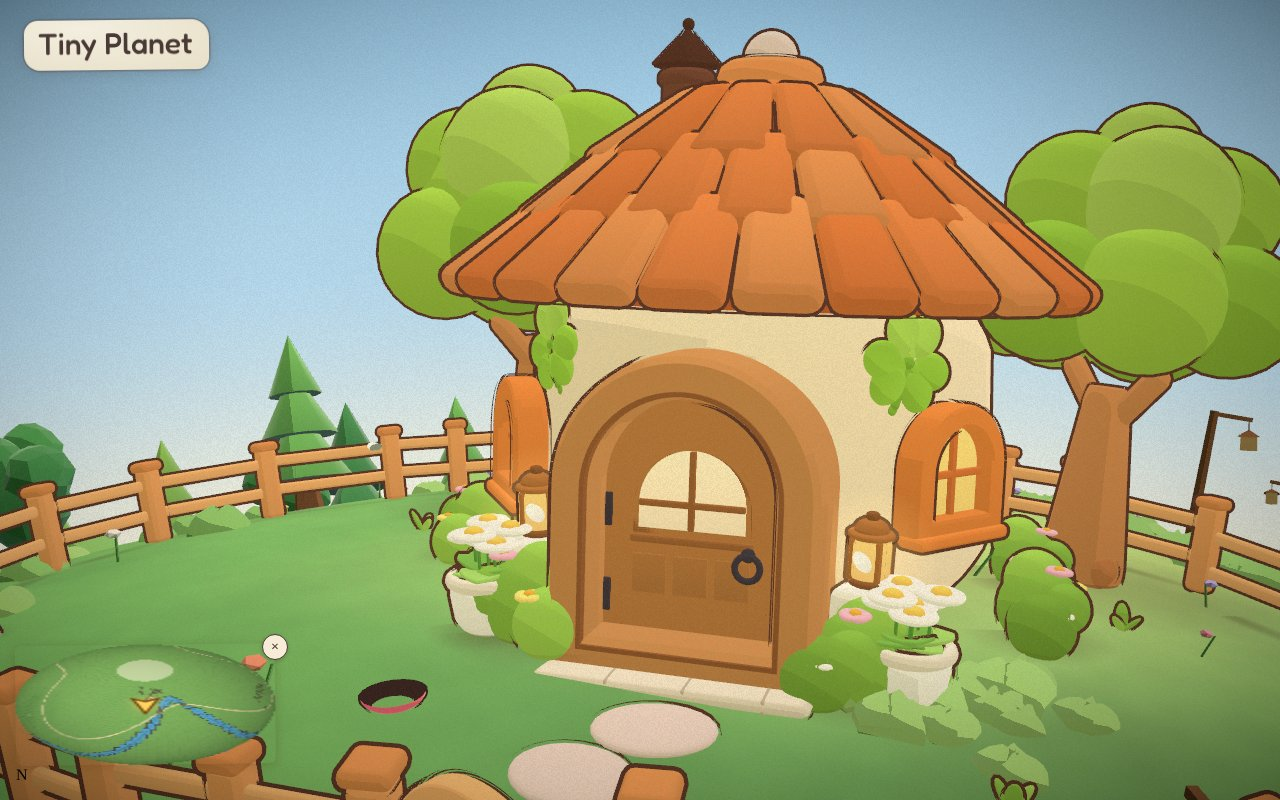
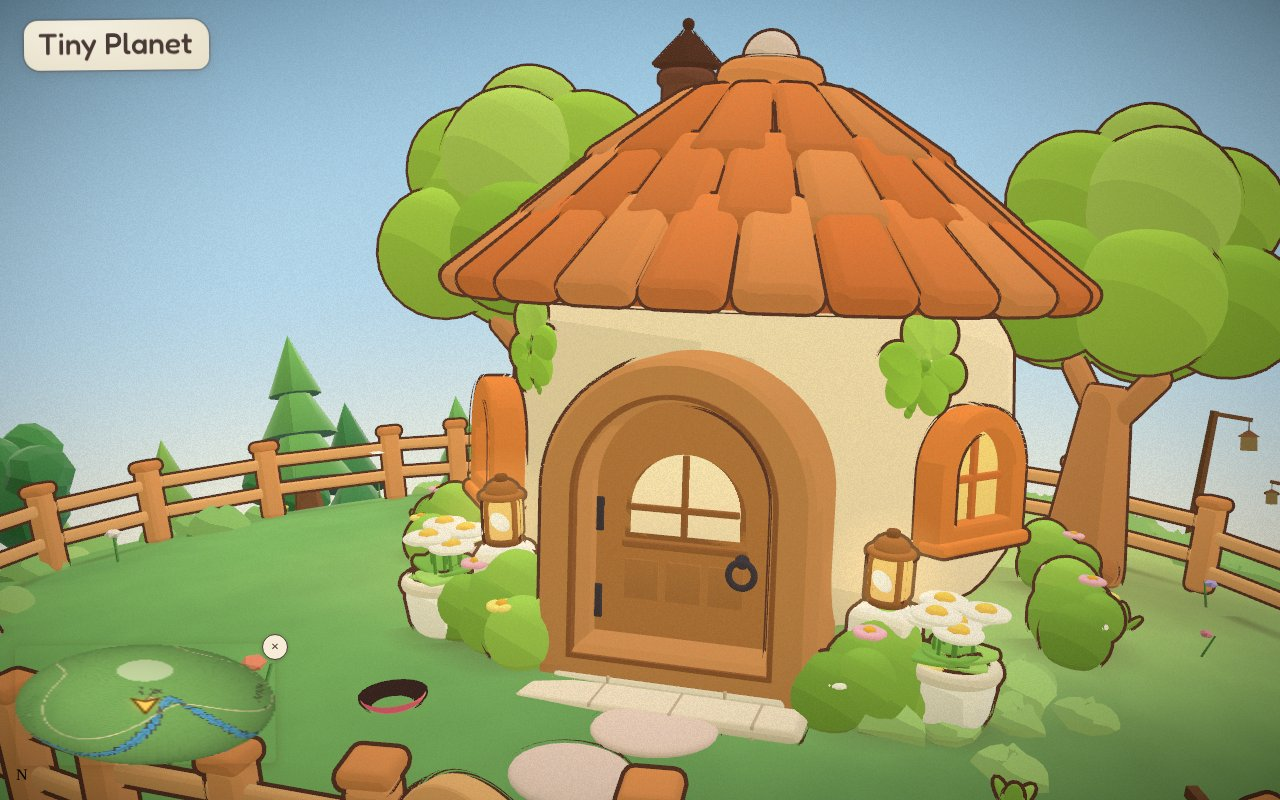
Home exterior: wider cottage walls under the same roof (roofR opt keeps the roof size)
Claude-Session: https://claude.ai/code/session_01CNaBwK9YXZ5oYtTd2WVtoL

diff --git a/src/props/items/exterior.js b/src/props/items/exterior.js
@@ -40,11 +40,11 @@ function clover(k, s = 1, lean = 1) {
 // door (doorLeaf/doorFrame, the same as inside), arched glowing windows with clover sprigs, a round bath porthole and
 // a chimney where the stove flue leaves the room (phi -50). Window angles follow the interior (sunny window -112ish,
 // kitchen window -13, porthole 47), so the outside and inside agree.
-//   opts: r, h (wall radius + height), windows: [{ phi, clover }], porthole (phi | null), chimney: { phi, r } | null,
+//   opts: r, h (wall radius + height), roofR (roof size, independent of the walls), belly (how much the walls bulge), windows: [{ phi, clover }], porthole (phi | null), chimney: { phi, r } | null,
 //         tiers (1-3), knob, door
 defineProp('cottage', { name: 'Round cottage', size: [1.26, 1.16, 1.26], tags: ['outdoor', 'building'],
   pal: { wall: '#fbe6c6', roof: '#f08a4b', roof2: '#f59c5c', roof3: '#ec8243', roofDark: '#b85a2c', trim: '#e8873f', pane: '#ffd873', bar: '#d9773a', clover: '#9ccf45', clover2: '#b4de5e', cloverStem: '#86bb3c', chimney: '#7c4b39', chimneyCap: '#5d382b', knob: '#f6ddd4', porthole: '#cfe7ee' },
-  opts: { r: 0.44, h: 0.62, belly: 0.14, windows: [{ phi: -125, clover: true }, { phi: 125, clover: true }, { phi: -13 }], porthole: 47, chimney: { phi: -50, r: 0.3 }, tiers: 3, knob: true, door: true } }, (k, o) => {
+  opts: { r: 0.48, roofR: 0.44, h: 0.62, belly: 0.14, windows: [{ phi: -125, clover: true }, { phi: 125, clover: true }, { phi: -13 }], porthole: 47, chimney: { phi: -50, r: 0.3 }, tiers: 3, knob: true, door: true } }, (k, o) => {
   const RW = o.r, HW = o.h
   // walls: a soft drum, a touch wider at the foot
   // walls: a plump, soft drum (a marshmallow): bulging out round the middle, a touch wider at the foot, very round edges
@@ -77,7 +77,7 @@ defineProp('cottage', { name: 'Round cottage', size: [1.26, 1.16, 1.26], tags: [
   // roof: a cone core under three tiers of chunky rounded tiles, each tier overhanging the one below
   const dy = HW - 0.52 // tiers are drawn for a 0.52 wall and lifted with it
   const tiers = [[0.63, 0.48, 0.44, 0.64, 26], [0.48, 0.6, 0.3, 0.76, 19], [0.34, 0.72, 0.15, 0.87, 13]].slice(0, o.tiers)
-    .map(([re, ye, rt, yt, n]) => [re * RW / 0.44, ye + dy, rt * RW / 0.44, yt + dy, n])
+    .map(([re, ye, rt, yt, n]) => [re * o.roofR / 0.44, ye + dy, rt * o.roofR / 0.44, yt + dy, n]) // the roof keeps its own size (roofR), so walls can widen under it
   k.cone([tiers[0][0] * 0.94, 0.52], [0, tiers[0][1] + 0.26, 0], 'roofDark', { n: 20 })
   tiers.forEach(([re, ye, rt, yt, n], ti) => {
     const L = Math.hypot(re - rt, yt - ye), th = Math.atan2(re - rt, yt - ye), rm = (re + rt) / 2, ym = (ye + yt) / 2, t = 0.05

diff --git a/src/home/Exterior.jsx b/src/home/Exterior.jsx
@@ -25,13 +25,13 @@ export function buildYard(homeN, onHouse, lift) {
     k.use('cottage', mat(0, 0, 0, 0, S), { chimney: COTTAGE.chimney, shadow: false })
     k.shadow(1.5, 1.5)
     // entrance, matching the interior's: lantern posts hugging the door frame, steps + mat, daisy pots, bushes
-    const fz = 0.47 * S
-    for (const s of [-1, 1]) k.use('lanternPost', at(s * 0.37, fz + 0.0, -s * 0.25))
+    const fz = 0.55 * S
+    for (const s of [-1, 1]) k.use('lanternPost', at(s * 0.42, fz - 0.02, -s * 0.25))
     k.use('steps', at(0, fz + 0.02, 0), { w: 0.4, mat: true })
-    for (const s of [-1, 1]) k.use('flowerPot', at(s * 0.47, fz + 0.06, s))
+    for (const s of [-1, 1]) k.use('flowerPot', at(s * 0.56, fz + 0.0, s))
     // flowering bushes round the foot of the wall, plain bushes toward the back
     ;[[-150, 1, 5], [150, 1, 4], [-100, 0.9, 3], [100, 0.95, 4], [-65, 0.85, 0], [70, 0.85, 2], [-20, 0.8, 0], [20, 0.8, 0]].forEach(([deg, sc, fl], i) => {
-      const [x, z] = polar(deg, 0.6 * S), m = at(x, z, -deg * Math.PI / 180 + Math.PI, S * sc)
+      const [x, z] = polar(deg, 0.66 * S), m = at(x, z, -deg * Math.PI / 180 + Math.PI, S * sc)
       fl ? k.use('flowerBush', m, { flowers: fl }) : k.use('bush', m) })
     for (const t of YARD.trees) k.use('puffTree', at(t.x, t.z, t.seed), { seed: t.seed, crown: t.crown })
     for (const [x, z, a] of YARD.stones) k.use('stepStone', at(x, z, a, S, 0.0))

diff --git a/src/home/yard.js b/src/home/yard.js
@@ -6,7 +6,7 @@
 export const HOME_S = 1.25
 export const COTTAGE = { chimney: { phi: -50, r: 0.3 } } // cottage opts shared with the smoke
 export const YARD = {
-  houseR: 0.6, // collider radius (walls + entrance bushes)
+  houseR: 0.7, // collider radius (the bulging walls + entrance bushes)
   doorZ: 0.45, outZ: 1.0, // 'Go inside' prompt point; where she steps out to
   trees: [{ x: -0.82, z: -0.56, seed: 1, crown: 0.33 }, { x: 0.86, z: -0.46, seed: 2.3, crown: 0.3 }],
   bench: [1.0, 0.5], sign: [-0.5, 1.95], mailbox: [0.48, 1.92], // sign + mailbox just outside the front gate
